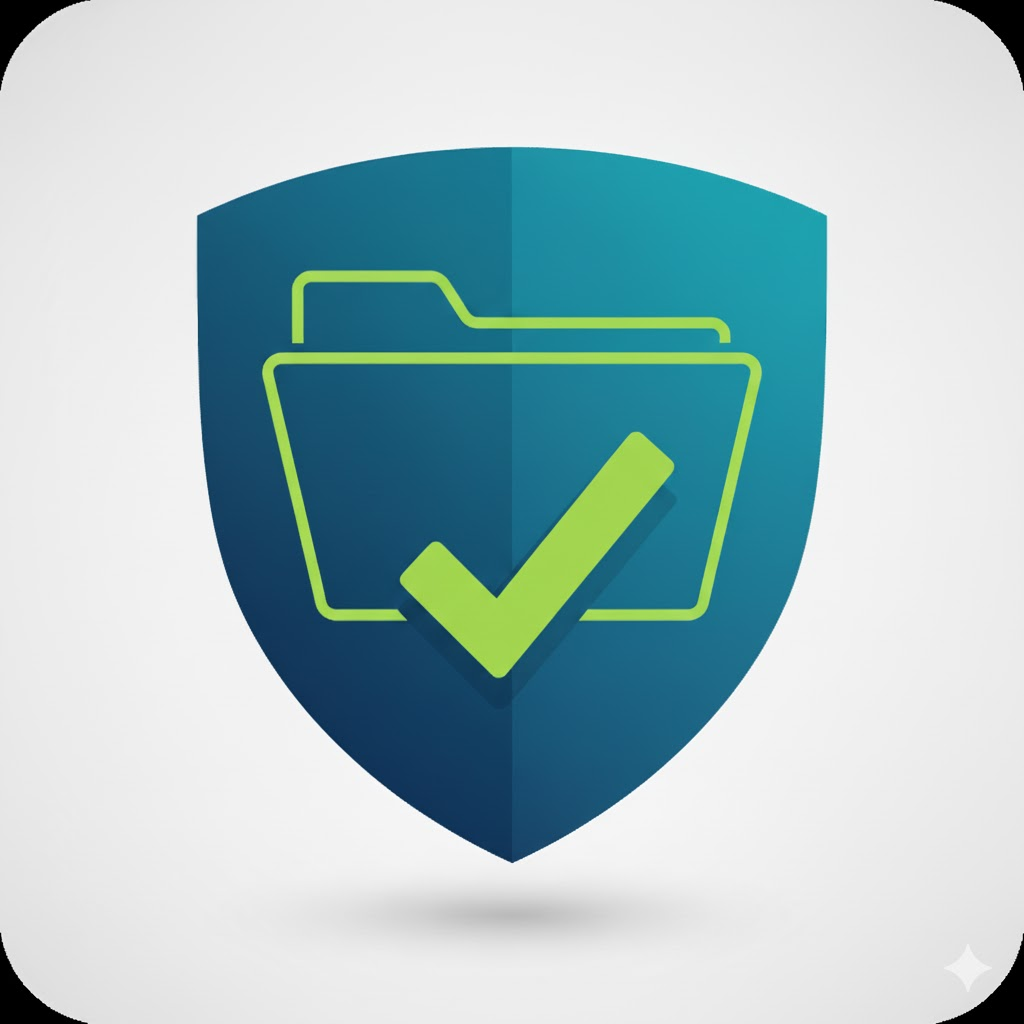
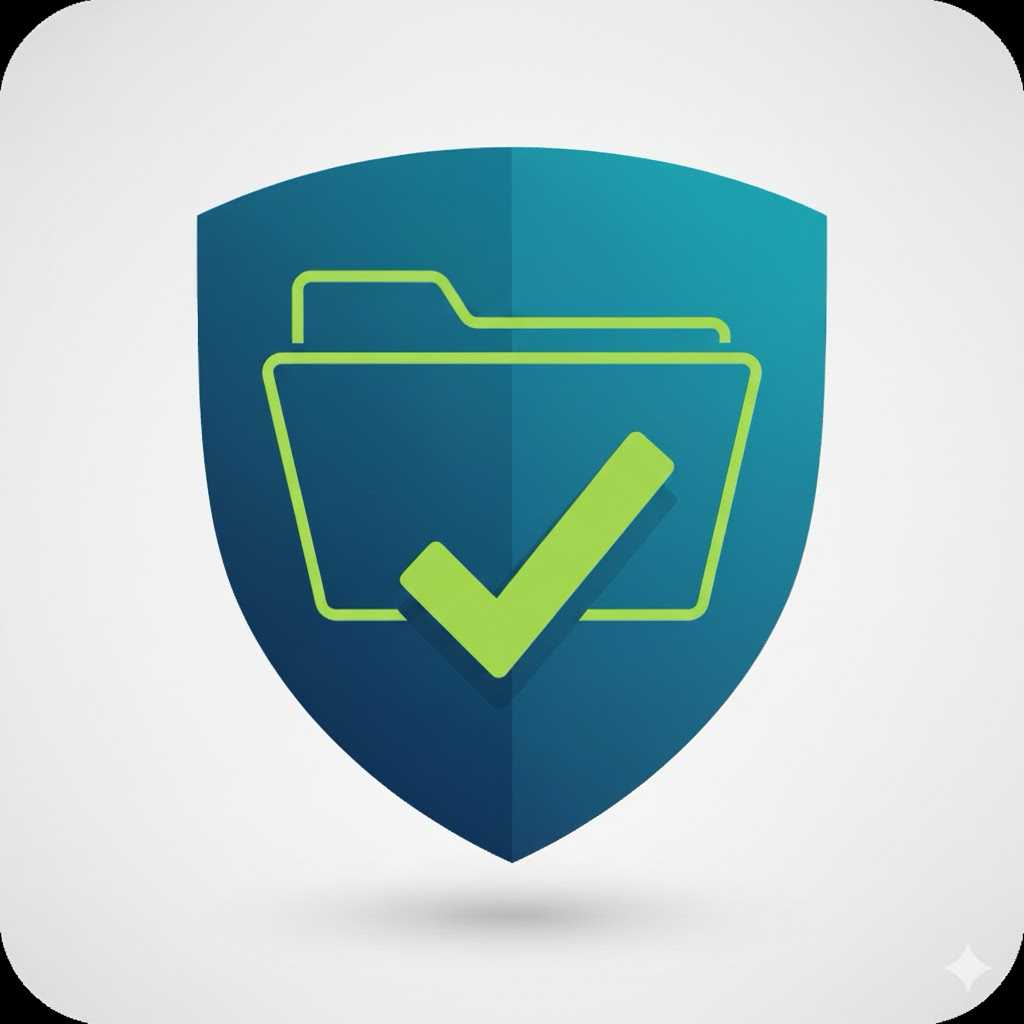
Fix hash detection and stabilize packaging CI

diff --git a/rust/hash-checker/src/lib.rs b/rust/hash-checker/src/lib.rs
@@ -34,6 +34,26 @@ pub fn supported_algorithms() -> &'static [&'static str] {
     ]
 }
 
+const ALGO_MD5: [&str; 1] = ["md5"];
+const ALGO_SHA1: [&str; 1] = ["sha1"];
+const ALGO_SHA224: [&str; 1] = ["sha224"];
+const ALGO_SHA384: [&str; 1] = ["sha384"];
+const ALGO_SHA256_FAMILY: [&str; 2] = ["sha256", "blake2s"];
+const ALGO_SHA512_FAMILY: [&str; 2] = ["sha512", "blake2b"];
+const ALGO_EMPTY: [&str; 0] = [];
+
+fn candidate_algorithms_for_length(length: usize) -> &'static [&'static str] {
+    match length {
+        32 => &ALGO_MD5,
+        40 => &ALGO_SHA1,
+        56 => &ALGO_SHA224,
+        64 => &ALGO_SHA256_FAMILY,
+        96 => &ALGO_SHA384,
+        128 => &ALGO_SHA512_FAMILY,
+        _ => &ALGO_EMPTY,
+    }
+}
+
 pub fn compute_hash(path: &Path, algorithm: &str) -> HashResult<String> {
     let normalized = algorithm.to_lowercase();
     match normalized.as_str() {
@@ -70,17 +90,9 @@ where
 }
 
 pub fn detect_algorithm(expected_hash: &str) -> Option<&'static str> {
-    let digest = expected_hash.trim();
-    let length = digest.len();
-    match length {
-        32 => Some("md5"),
-        40 => Some("sha1"),
-        56 => Some("sha224"),
-        64 => Some("sha256"),
-        96 => Some("sha384"),
-        128 => Some("sha512"),
-        _ => None,
-    }
+    candidate_algorithms_for_length(expected_hash.trim().len())
+        .first()
+        .copied()
 }
 
 fn is_hex(s: &str) -> bool {
@@ -100,16 +112,36 @@ pub fn verify_hash(
         return Err(HashError::InvalidExpectedHash);
     }
 
-    let algo = match algorithm {
-        Some(name) => Some(name.to_string()),
-        None => detect_algorithm(&digest).map(|s| s.to_string()),
+    let provided_algorithm = algorithm.and_then(|name| {
+        let trimmed = name.trim();
+        if trimmed.is_empty() {
+            None
+        } else {
+            Some(trimmed.to_lowercase())
+        }
+    });
+
+    let candidates: Vec<String> = if let Some(name) = provided_algorithm {
+        vec![name]
+    } else {
+        let inferred = candidate_algorithms_for_length(digest.len());
+        if inferred.is_empty() {
+            return Err(HashError::InferenceFailed(digest.len()));
+        }
+        inferred.iter().map(|algo| (*algo).to_string()).collect()
     };
 
-    let algo = match algo {
-        Some(name) => name,
-        None => return Err(HashError::InferenceFailed(digest.len())),
-    };
+    let mut first_computed: Option<String> = None;
+    for candidate in &candidates {
+        let computed = compute_hash(path, candidate)?;
+        if computed == digest {
+            return Ok((true, computed));
+        }
+        if first_computed.is_none() {
+            first_computed = Some(computed);
+        }
+    }
 
-    let computed = compute_hash(path, &algo)?;
-    Ok((computed == digest, computed))
+    let computed = first_computed.unwrap_or_default();
+    Ok((false, computed))
 }

diff --git a/rust/hash-checker/tests/cli_tests.rs b/rust/hash-checker/tests/cli_tests.rs
@@ -1,4 +1,5 @@
 use assert_cmd::Command;
+use hash_checker::compute_hash;
 use predicates::str::contains;
 use std::path::PathBuf;
 use tempfile::TempDir;
@@ -50,4 +51,26 @@ fn list_algorithms_outputs_supported() {
     cmd.arg("--list-algorithms");
     cmd.env("RUST_BACKTRACE", "1");
     cmd.assert().success().stdout(contains("sha256"));
+}
+
+#[test]
+fn cli_infers_blake2s_without_algorithm_flag() {
+    let (temp_dir, path) = sample_file();
+    let digest = compute_hash(path.as_path(), "blake2s").expect("hash");
+    let mut cmd = Command::cargo_bin("hash-checker").expect("binary");
+    cmd.arg(&path).arg(digest);
+    cmd.env("RUST_BACKTRACE", "1");
+    cmd.assert().success().stdout(contains("Hashes match"));
+    drop(temp_dir);
+}
+
+#[test]
+fn cli_infers_blake2b_without_algorithm_flag() {
+    let (temp_dir, path) = sample_file();
+    let digest = compute_hash(path.as_path(), "blake2b").expect("hash");
+    let mut cmd = Command::cargo_bin("hash-checker").expect("binary");
+    cmd.arg(&path).arg(digest);
+    cmd.env("RUST_BACKTRACE", "1");
+    cmd.assert().success().stdout(contains("Hashes match"));
+    drop(temp_dir);
 }

diff --git a/rust/hash-checker/tests/hash_tests.rs b/rust/hash-checker/tests/hash_tests.rs
@@ -59,6 +59,24 @@ fn verify_hash_matches_expected() {
 }
 
 #[test]
+fn verify_hash_infers_blake2s() {
+    let file = write_sample_file();
+    let blake2s = compute_hash(file.path(), "blake2s").expect("hash");
+    let (matches, computed) = verify_hash(file.path(), &blake2s, None).expect("verify");
+    assert!(matches);
+    assert_eq!(computed, blake2s);
+}
+
+#[test]
+fn verify_hash_infers_blake2b() {
+    let file = write_sample_file();
+    let blake2b = compute_hash(file.path(), "blake2b").expect("hash");
+    let (matches, computed) = verify_hash(file.path(), &blake2b, None).expect("verify");
+    assert!(matches);
+    assert_eq!(computed, blake2b);
+}
+
+#[test]
 fn supported_algorithms_contains_expected() {
     let algos = supported_algorithms();
     for name in ["md5", "sha1", "sha256", "blake2b"] {

diff --git a/docs/PLAN.md b/docs/PLAN.md
@@ -37,6 +37,12 @@
 - [ ] Add `cargo-dist` (or equivalent) release pipeline and generate release notes.
 - [ ] Design binary signing/notarisation workflow (macOS, Windows).
 
+### Closure roadmap (target: 2025-10-22)
+1. Stabilise Linux packaging in CI by retaining the regenerated PNG icons under `docs/assets` and adding a nightly `cargo packager --formats deb` check.
+2. Wire Playwright (or the existing smoke harness) into GitHub Actions so the GUI automation checkbox can be flipped to done, then gate merges on the new job.
+3. Prototype release-note generation via `cargo dist init` on a feature branch and capture the delta in `docs/OPERATIONS.md` before enabling it in CI.
+4. Draft the signing/notarisation runbook (macOS Developer ID, Windows signtool/EV cert) and record external credential requirements ahead of Phase 4.
+
 ## Phase 4 – Security Hardening
 - [ ] Perform security review of hash verification pipeline (path handling, canonicalisation).
 - [ ] Integrate supply-chain scanning (`cargo audit`, `cargo deny`).

diff --git a/docs/OPERATIONS.md b/docs/OPERATIONS.md
@@ -14,3 +14,16 @@
 6. Update `docs/PLAN.md` / `docs/TASKS.md` if new follow-up work is identified.
 
 Keep this document with the repo to standardise release expectations.
+
+## Build Diagnostics (2025-10-08)
+
+### Successful checks
+- `cargo fmt --check` for CLI and GUI crates.
+- `cargo clippy --all-targets -- -D warnings` on both crates.
+- `cargo test` (CLI crate) and `make rust-test` inside Docker.
+- `cargo run --release -- --smoke-test` for the GUI crate.
+- `cargo packager --release --formats deb` inside `rust:1.83` Docker after icon fix.
+
+### Common failure modes
+- `cargo packager` rejects legacy keys such as `[package.metadata.packager.macos].icons` and `[package.metadata.packager.windows].icon-path`; consolidate under the root `icons` array.
+- Debian packaging fails with `Invalid PNG signature` if `docs/assets/icon-hash-checker-*.png` contains JPEG data—re-export icons as real PNGs (`sips -s format png …`).
